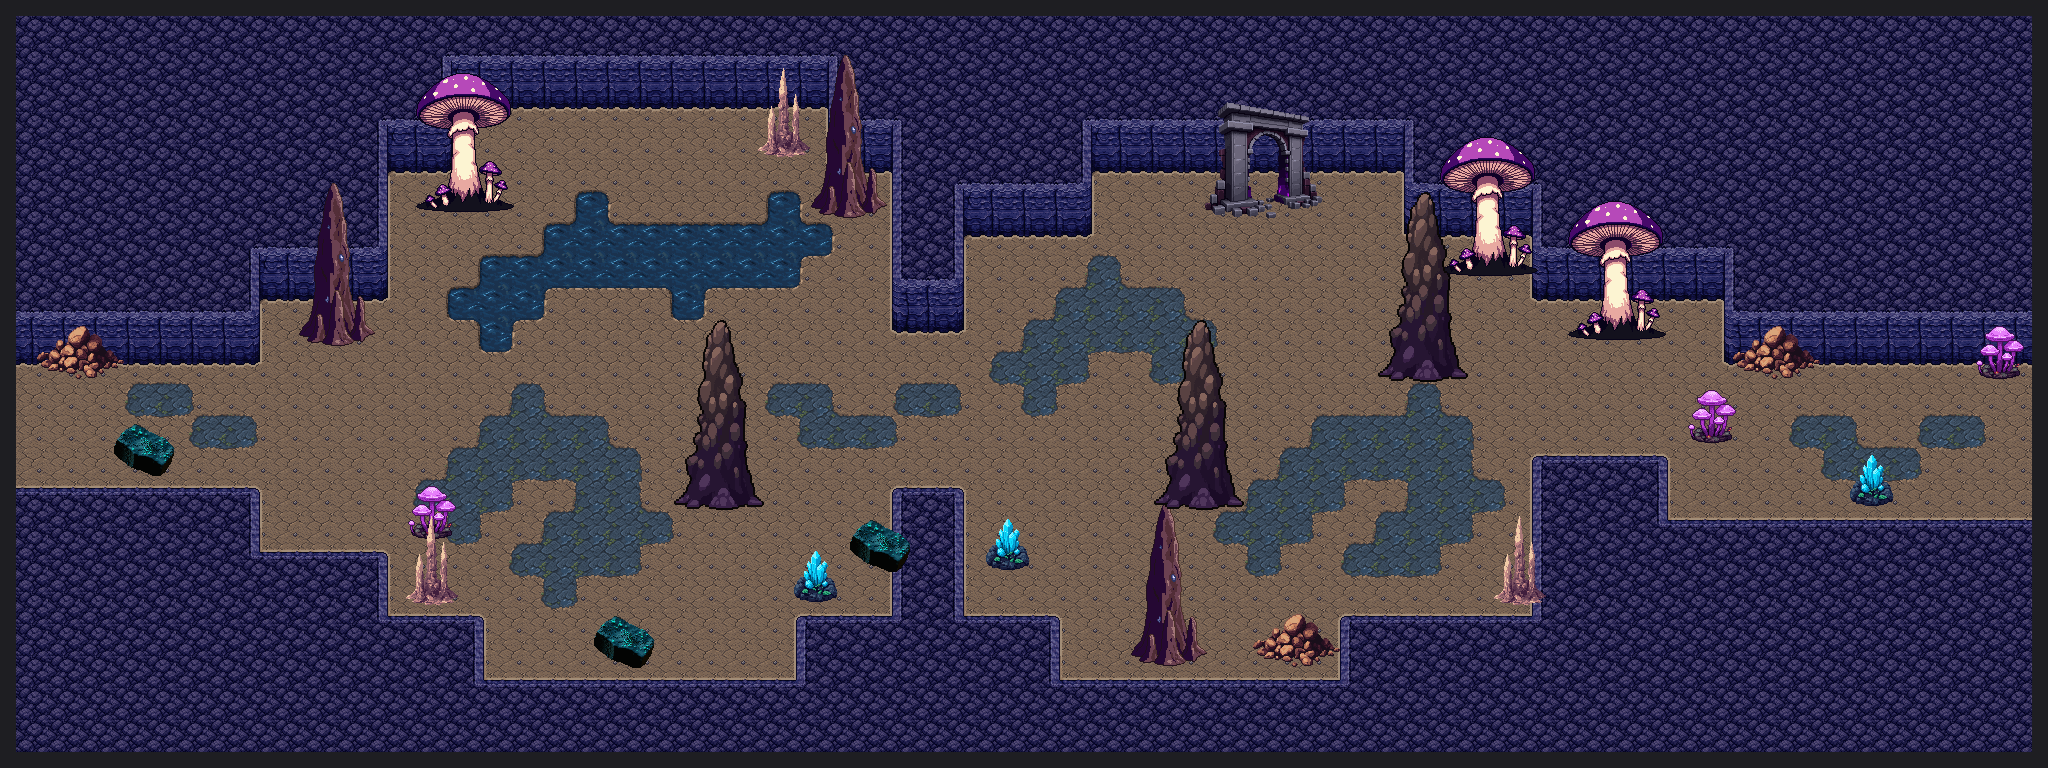
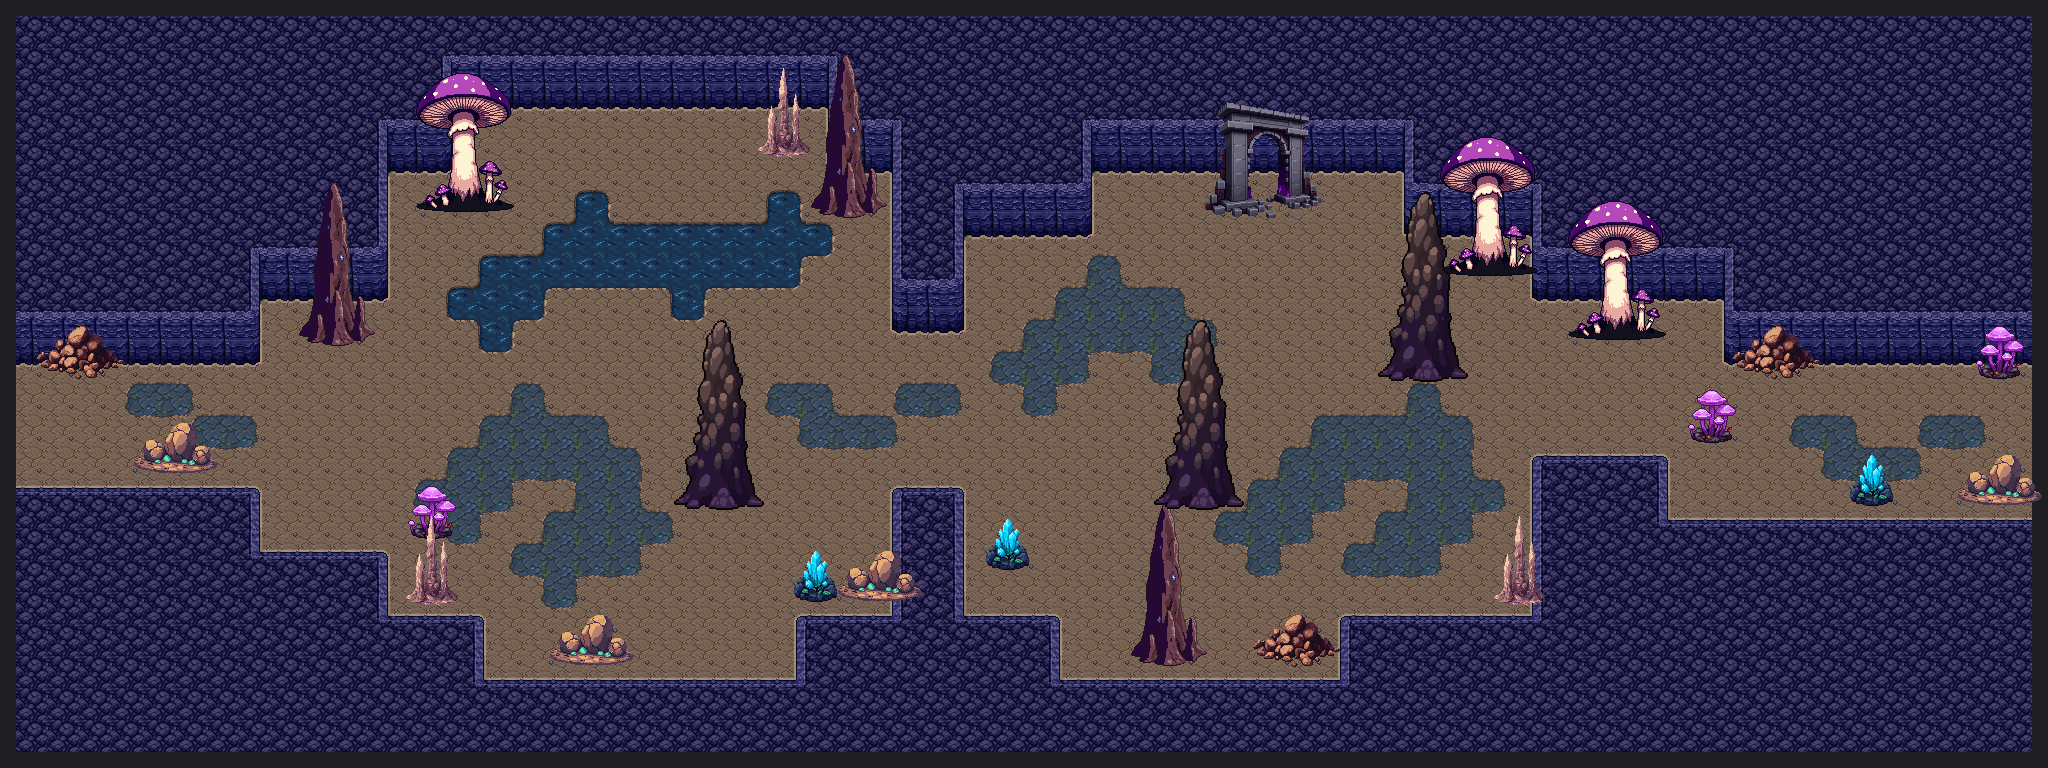
Pixel road: crystals glow, and boulders that belong
Sam, 2026-11-22: "Those green boulders looks out of place. Can you improve them so they don't
look random? Crystals should glow."
- The teal fungus rocks are replaced by brown boulders of the floor's own stone with teal fungus
  in the cracks, set against walls and in corners.
- What glows now really does: a pool of colour on the floor, a bloom, a slow pulse of its own,
  and glints on crystals. Set per kind in road.json (glow, shine).

Claude-Session: https://claude.ai/code/session_01QSk71K38AvMywZjp8GWjJx

diff --git a/public/pixel-road/index.html b/public/pixel-road/index.html
@@ -195,13 +195,37 @@ function drawLight() {
   hole(heroes[0].x, heroes[0].y - 14, 260, 1);
   for (const o of road.objects) if (road.glow[o.kind]) hole(o.x + o.w / 2, o.y + o.h * 0.6, o.h > 100 ? 96 : 70, 0.6);
   ctx.setTransform(1, 0, 0, 1, 0, 0); ctx.drawImage(lightCv, 0, 0);
-  // a little of each glowing thing's own colour on the ground around it
+}
+// WHAT GLOWS (Sam, 2026-11-22: "Crystals should glow"). road.json says which kinds of prop give off light, in what
+// colour and how strongly. Each one gets a pool of its colour on the floor, a bloom over itself, a slow pulse of its
+// own, and the strong ones (crystals) get glints. It is drawn after the darkness, so it reads as light, and it does
+// not depend on ?light.
+const hexA = (hex, a) => hex + Math.round(Math.max(0, Math.min(1, a)) * 255).toString(16).padStart(2, "0");
+function drawGlow(now) {
+  ctx.setTransform(cam.z, 0, 0, cam.z, -cam.x * cam.z, -cam.y * cam.z);
   ctx.globalCompositeOperation = "lighter";
-  const pulse = 0.85 + 0.15 * Math.sin(performance.now() / 900);
-  for (const o of road.objects) { const col = road.glow[o.kind]; if (!col) continue;
-    const x = sx(o.x + o.w / 2), y = sy(o.y + o.h * 0.7), r = (o.h > 100 ? 52 : 30) * z, g = ctx.createRadialGradient(x, y, 0, x, y, r);
-    g.addColorStop(0, col + "30"); g.addColorStop(1, col + "00"); ctx.globalAlpha = pulse; ctx.fillStyle = g; ctx.fillRect(x - r, y - r, 2 * r, 2 * r); }
-  ctx.globalAlpha = 1; ctx.globalCompositeOperation = "source-over";
+  const t = now / 1000;
+  for (const o of road.objects) {
+    const col = road.glow && road.glow[o.kind]; if (!col) continue;
+    const k = (road.shine && road.shine[o.kind]) ?? 0.4, ph = o.x * 0.37 + o.y * 0.11;
+    const pulse = 0.76 + 0.24 * Math.sin(t * 1.7 + ph), cx = o.x + o.w / 2, base = o.ground[1] + o.ground[3] * 0.6;
+    // the pool on the floor: wide and flat
+    let r = 34 + 46 * k; ctx.save(); ctx.translate(cx, base); ctx.scale(1, 0.5);
+    let g = ctx.createRadialGradient(0, 0, 0, 0, 0, r); g.addColorStop(0, hexA(col, 0.42 * k * pulse)); g.addColorStop(0.5, hexA(col, 0.16 * k * pulse)); g.addColorStop(1, hexA(col, 0));
+    ctx.fillStyle = g; ctx.fillRect(-r, -r, 2 * r, 2 * r); ctx.restore();
+    // the bloom over the thing itself
+    const by = o.h > 100 ? o.y + o.h * 0.3 : o.y + o.h * 0.55; r = (o.h > 100 ? o.w * 0.55 : o.w * 0.62) * (0.8 + 0.4 * k);
+    g = ctx.createRadialGradient(cx, by, 0, cx, by, r); g.addColorStop(0, hexA(col, 0.5 * k * pulse)); g.addColorStop(0.45, hexA(col, 0.2 * k * pulse)); g.addColorStop(1, hexA(col, 0));
+    ctx.fillStyle = g; ctx.fillRect(cx - r, by - r, 2 * r, 2 * r);
+    if (k < 0.9) continue;
+    // glints: three small stars that take turns catching the light
+    for (let i = 0; i < 3; i++) {
+      const a = Math.max(0, Math.sin(t * 2.3 + ph + i * 2.1)) ** 6; if (a < 0.03) continue;
+      const gx = cx + [-9, 6, 1][i], gy = o.y + o.h * [0.42, 0.5, 0.28][i], L = 5 * a + 1;
+      ctx.fillStyle = hexA("#ffffff", 0.9 * a); ctx.fillRect(gx - L, gy - 0.5, 2 * L, 1); ctx.fillRect(gx - 0.5, gy - L, 1, 2 * L);
+    }
+  }
+  ctx.globalCompositeOperation = "source-over";
 }
 // THE NEAR ROCK (art: Sam, 2026-11-22, a stalactite ceiling lip and a stalagmite shelf). The ceiling hangs across the
 // top of the screen and the shelf rises along the bottom, both closer to the eye than the party, so they slide past
@@ -240,6 +264,7 @@ function frame(now) {
   things.sort((a, b) => a.y - b.y);
   for (const t of things) { if (t.h) drawHero(t.h); else if (objImg[t.o.kind]) { ctx.imageSmoothingEnabled = false; ctx.drawImage(objImg[t.o.kind], t.o.x, t.o.y); } }
   if (LIGHT) drawLight();
+  drawGlow(now);
   drawForeground();
   ctx.setTransform(cam.z, 0, 0, cam.z, -cam.x * cam.z, -cam.y * cam.z);
   sign("← " + road.entry.label, road.entry.x + 26, road.entry.y - 62, 220);

diff --git a/scripts/pixel-road/bake.py b/scripts/pixel-road/bake.py
@@ -10,7 +10,9 @@ config.json:
     "export": "x/",                            the unzipped PixelLab export (objects/manifest.json + PNGs)
     "kinds": {"name prefix": "kind", ...},     PixelLab object name -> short kind used for the file name
     "foreground": {"ceiling": "art/ceiling.webp", "shelf": "art/shelf.webp"},
-    "entry": {...}, "exit": {...}, "landmarks": [...], "glow": {...} }
+    "entry": {...}, "exit": {...}, "landmarks": [...],
+    "glow": {"kind": "#colour"},               which kinds of prop give off light, and its colour
+    "shine": {"kind": 0..1} }                  how strongly: 1 is a crystal, 0.3 a patch of fungus
 
 What it writes:
   ground.png   the stitched picture, props painted in
@@ -114,7 +116,7 @@ def main():
             "ground": "ground.png", "shade": "shade.png", "foreground": fg,
             "legend": {"w": "floor", "r": "damp floor", "d": "rock", "a": "rock face", "s": "stream"}, "walkable": "wr",
             "grid": grid, "objects": objs, "entry": cfg["entry"], "exit": cfg["exit"],
-            "landmarks": cfg.get("landmarks", []), "glow": cfg.get("glow", {})}
+            "landmarks": cfg.get("landmarks", []), "glow": cfg.get("glow", {}), "shine": cfg.get("shine", {})}
     json.dump(road, open(os.path.join(out, "road.json"), "w"), indent=1)
     print(rid, len(objs), "props,", sorted(seen), "->", out)
 

diff --git a/scripts/pixel-road/README.md b/scripts/pixel-road/README.md
@@ -23,6 +23,19 @@ Everything in that folder is written by `bake.py`. Do not edit it by hand; chang
 4. **A close camera**: about eight and a half cells of height on screen.
 5. **Near rock**: a painted ceiling of stalactites across the top and a shelf of stalagmites along the bottom that slide faster than the floor.
 
+## Light
+
+`road.json` names the kinds of prop that give off light (`glow`: colour, `shine`: strength). The page gives each a
+pool of its colour on the floor, a bloom over itself and a slow pulse; crystals (shine 1) also get glints
+(Sam, 2026-11-22: "Crystals should glow").
+
+## Props that belong
+
+Sam, 2026-11-22, on the first teal fungus rocks: "Those green boulders looks out of place ... they don't look random".
+What fixed it: make a prop from the same stone as the floor and let the odd colour be a small part of it (brown
+boulders with teal fungus in the cracks, not a teal rock), and stand it against a wall or in a corner, not alone in
+the middle of the floor.
+
 ## Baking `road-01` (PixelLab map `1c47eece-3986-4b2c-9501-3ad0b47fe44e`, "Road 01 - Tunnel out of Velkynvelve (cavern)")
 
 `python3 scripts/pixel-road/bake.py road-01 <config.json>`, with a config like `road-01.config.json` here (its
